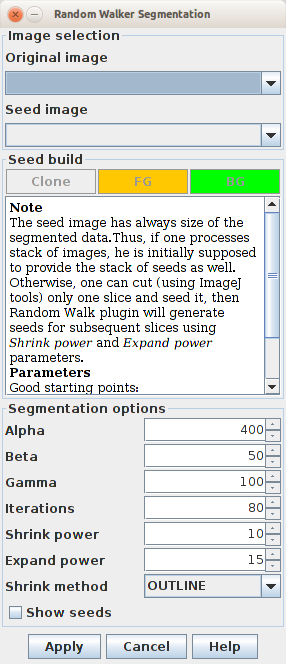
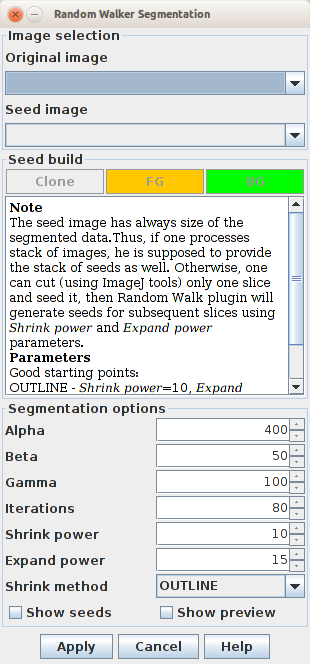
Updated RW plugin doc and added mask doc

diff --git a/Docs/QuimP_Guide.tex b/Docs/QuimP_Guide.tex
@@ -108,7 +108,7 @@ Consult our Wiki page for installation details:\\ \url{http://warwick.ac.uk/quim
 
 \section{QuimP Workflow}
 
-There are four stages which are usually performed when tracking cells using QuimP, each handled by a different plugin.
+There are four stages which are usually performed when tracking cells using QuimP, each handled by a different plugin (Figure \ref{fig:quimpBar}).
 
 \begin{enumerate}
 	\item Cell segmentation - Performed by the \textbf{BOA} plugin.  Cell outlines, represented as a chain of nodes, are extracted from each frame of an image sequence using an active contour. BOA outputs global measures, such as cell centroid displacement, or cell area.
@@ -122,11 +122,12 @@ Additionally, there are image pre-processing plugins available such as:
 \begin{enumerate}
 	\item DIC\footnote{Differential Interference Contrast microscopy} plugin (\autoref{sec:DIC})
 	\item Random Walker Segmentation plugin (\autoref{sec:RWSeg})
+	\item Mask generator (\autoref{sec:MaskGenerator})
 \end{enumerate}
 
 A plugin can be launched from either the $[Plugins\rightarrow QuimP]$ menu, or from the QuimP bar
 (opened via $[Plugins\rightarrow QuimP\rightarrow QuimP Bar]$).
-Running a plugin will either require an image and/or a QuimP parameter file (with extension \textit{.paQP}) generated by BOA.
+Running a plugin will either require an image and/or a QuimP parameter file (with extension \textit{.paQP} or  \textit{.QCONF}) generated by BOA (see section \ref{sec:DataFilesExplained} for details). Demanded file format can be pre-selected by \textit{File Format Selection} tick box. This selection influences all QuimP modules, even if started directly from Fiji plugin menu.
 Plugins must be executed left to right, although steps can be repeated without re-running previous plugins and fluorescence measurements performed by ANA can be skipped entirely.
 
 Once complete, data can be analysed in Excel or MATLAB.
@@ -370,7 +371,7 @@ The binary segmentation plugin can be launched from BOA menu $(\textit{Segmentat
 
 \begin{figure}[hp]
 	\centering
-	\includegraphics[height=10cm]{BinarySeg.png}
+	\includegraphics[height=8cm]{BinarySeg.png}
 	\caption{The Binary Segmentation Window}
 	\label{BinarySegWindow}
 \end{figure}
@@ -487,7 +488,7 @@ according to frame number, and a motility movie in which nodes are coloured with
 
 \begin{figure}[ht]
    \centering
-   \includegraphics[height=10cm]{screenQAnalysis.png} 
+   \includegraphics[height=8cm]{screenQAnalysis.png} 
    \caption{Q Analysis options dialog}
    \label{screenQAnalysis}
 \end{figure}
@@ -534,7 +535,7 @@ Reconstructed image can be affected by linear pattern that can be filtered by ru
    
 \begin{figure}[ht]
 	\centering
-	\includegraphics[width=10cm]{DICwindow.png} 
+	\includegraphics[width=8cm]{DICwindow.png} 
 	\caption{DIC filter options dialog}
 	\label{fig:dicdialog}
 \end{figure} 
@@ -554,7 +555,7 @@ For stacks, if only initial seed is given, the RW plugin generates seeds for \te
 
 \subsubsection{Random Walker Segmentation Workflow}
 
-The Random Walker plugin can be used with Binary Segmentation (\ref{sec:Binary_seg}) plugin available in BOA for creation of Snake outlines. Possible workflow is presented below:
+The Random Walker plugin (Figure \ref{fig:rwdialog}) can be used with Binary Segmentation (\ref{sec:Binary_seg}) plugin available in BOA for creation of Snake outlines. Possible workflow is presented below:
 
 \begin{enumerate}
 	\item Open \textit{original image} that will be analysed
@@ -569,6 +570,16 @@ The Random Walker plugin can be used with Binary Segmentation (\ref{sec:Binary_s
 
 \subsubsection{Random Walker Segmentation Parameters}
 
+\textbf{Shrink power} - control how much current segmented frame is processed to get seed for the next frame. This parameter depends on selected \textbf{Shrink method} and dynamic of the cell motility. Higher values of \textbf{Shrink power} should be selected if there are significant differences between frames (objects move faster). Optimal values for \textit{MORPHO} are 3 to 5, \textit{OUTLINE} works better with \textbf{Shrink power} around 13.
+
+\textbf{Expand power} - the same as \textbf{Shrink power} but concerns background.
+
+\textbf{Shrink method} - \textit{OUTLINE} or \textit{MORPHO}. This parameter controls how the next frame seed is generated from the current segmented frame. It is used only when stacks are processed and the initial seed is a single image. The \textit{OUTLINE} uses ANA contour shrinking whereas \textit{MORPHO} is based on morphological erosion and dilatation. 
+
+\textbf{Show seeds} - produce seed preview at the end of segmentation. May be useful to select optimal \textbf{Shrink power}. To get best result ay part of foreground object should not be seeded as background and vice versa. 
+
+\textbf{Show preview} - display segmented frame of stack.
+
 \begin{figure}[ht]
 	\centering
 	\includegraphics[width=8cm]{screenRandomWalk.png} 
@@ -576,13 +587,21 @@ The Random Walker plugin can be used with Binary Segmentation (\ref{sec:Binary_s
 	\label{fig:rwdialog}
 \end{figure}
 
-\textbf{Shrink power} - controls how much current segmented frame is processed to get seed for the next frame. This parameter depends on selected \textbf{Shrink method} and dynamic of the cell motility. Higher values of \textbf{Shrink power} should be selected if there are significant differences between frames (objects move faster). Optimal values for \textit{MORPHO} are 3 to 5, \textit{OUTLINE} works better with \textbf{Shrink power} around 13.
+\subsection{Mask generator}
+\label{sec:MaskGenerator}
 
-\textbf{Expand power} - the same as \textbf{Shrink power} but concerns background.
+This plugin can convert cells contours into binary image mask. The cell shape is represented by white area being a filled cell contour whereas the background in black. Masks are widely used in computer graphics for selecting regions of image for processing and analysing. ImageJ is also equipped with relevant procedures that allow for explicit processing masked regions. Therefore, this plugin make it possible to continue analysis of the sample outside the QuimP infrastructure.
 
-\textbf{Shrink method} - \textit{OUTLINE} or \textit{MORPHO}. This parameter controls how the next frame seed is generated from the current segmented frame. It is used only when stacks are processed and the initial seed is a single image. The \textit{OUTLINE} uses ANA contour shrinking whereas \textit{MORPHO} is based on morphological erosion and dilatation. 
+Mask Generator plugin works with \textit{QCONF} files saved by BOA plugin. It is not possible to use it with old file format (paQP) unless it has been converted to \textit{QCONF} by Format Converter (available from QuimP toolbar menu). By default, the mask image is displayed on the screen and saved on disk at location of input \textit{QCONF} file with suffix \textit{snakemask}.
 
-\textbf{Show seeds} - produces seed preview at the end of segmentation. May be useful to select optimal \textbf{Shrink power}. To get best result ay part of foreground object should not be seeded as background and vice versa. 
+\subsubsection{Suggested workflow}
+
+\begin{itemize}
+	\item Run Mask Generator plugin from QuimP toolbar (Figure \ref{fig:quimpBar}).
+	\item Point to \textit{QCONF} file to process. This plugin does not support old \textit{paQP} files (but they can be converted to ne file format by Format Converter, refer to section \ref{sec:DataFilesExplained}).
+	\item Binary mask image, converted from contours stored in QCONF file by BOA module will be displayed on the screen and saved on disk (Fig. 3). Default saving location is the location of opened QCONF file. The quality of mask depends on the quality of segmentation and the number of nodes configured in BOA module.
+	\item Use \texttt{Edit$\rightarrow$Selection$\rightarrow$Create Selection} to convert binary mask to ImageJ ROIs. Then, it can be populated through ROI manager to e.g. source image.
+\end{itemize}
 
 \section{Protrusion tracking}
 \label{sec:ProtTracking}
@@ -619,6 +638,7 @@ The user interface is shown below.
 Every time when \textit{Apply} button is used, the module runs new analysis and produces all plots ticked in relevant sections.  
 
 \section{Data Files Explained}
+\label{sec:DataFilesExplained}
 
 \subsection{Parameter files - new format vs. old format}
 The latest QuimP introduces a new file format support\footnote{above QuimP11}. The \textit{QCONF} file is based on human-readable JSON format and it is designed to hold all results evaluated by QuimP on every stage of data processing, together with configuration parameters, algorithm settings, etc. 
@@ -628,7 +648,16 @@ Currently, QuimP understands both formats, but its behavior depends on which for
 \begin{itemize}
 	\item loading \textit{QCONF} file to QuimP module causes that this file will be updated and saved back. Files in previous format (\textit{paQP}, \textit{snQP}, etc) can be optionally regenerated by Format Converter\footnote{Available from QuimP Toolbar $\textit{Tools}\rightarrow\textit{Format Converter}$} directory. \textbf{This is recommended approach.}
 	\item loading \textit{paQP} to QuimP module switches QuimP to compatibility mode - all files in previous formats will be generated in the same way as QuimP11, \textit{QCONF} will not be generated or updated. 
-\end{itemize}     
+\end{itemize}   
+
+The tick box available in QuimP Toolbar (Figure \ref{fig:quimpBar}) allows to show only files of specified type ( *.QCONF or *.paQP) in file chooser. The new format is default for all modules.
+\\\\
+\noindent\fcolorbox{red}{yellow}{
+	\parbox{\textwidth} {
+		This feature may not work correctly on Windows systems.
+	}
+}
+ 
 Relations between module and file are summarized in Table \ref{filestable}. Legend for Table \ref{filestable} is as follows:
 \begin{itemize}
 	\item \textbf{N} - file is created.
@@ -636,7 +665,7 @@ Relations between module and file are summarized in Table \ref{filestable}. Lege
 	\item \textbf{C} - file is changed - some data are replaced.
 \end{itemize}
 \textbf{Note 1} \\
-When operating with QCONF files, QuimP modules can overwrite existing \textit{paQP} and \textit{snQP} files. The content of those files does not change but the file creation date as well as control sum in \textit{paQP} do.
+When operating with QCONF files, QuimP modules can overwrite existing \textit{paQP} and \textit{snQP} files. The content of those files does not change but the file creation date as well as control sum in \textit{paQP} will change.
 
 \textbf{Note 2} \\
 It is possible to set different segmentation parameters for each frame in BOA module. This feature was not supported in QuimP11, therefore for compatibility reasons, the \textit{paQP} file regenerated on \textit{QCONF} saving will contain segmentation parameters copied from first segmented frame.
